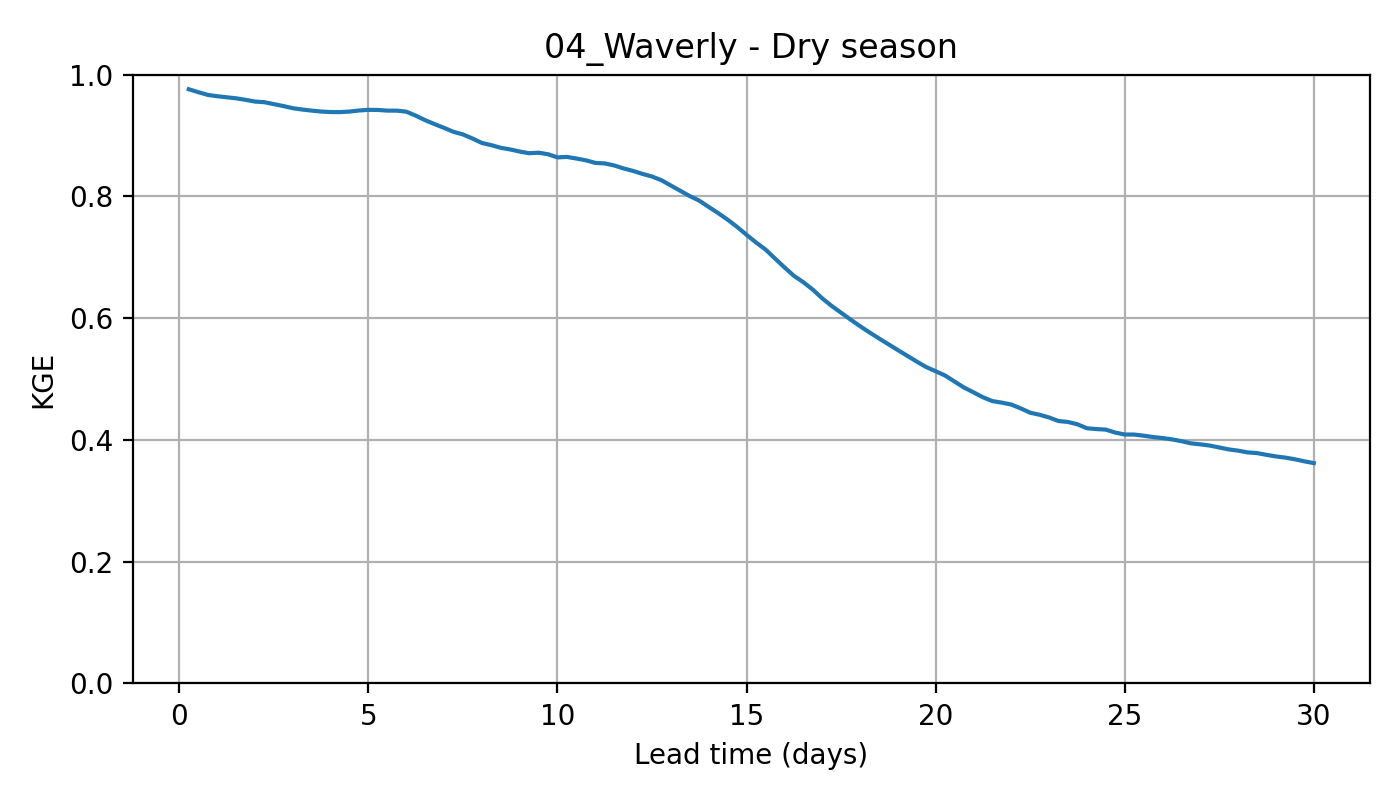
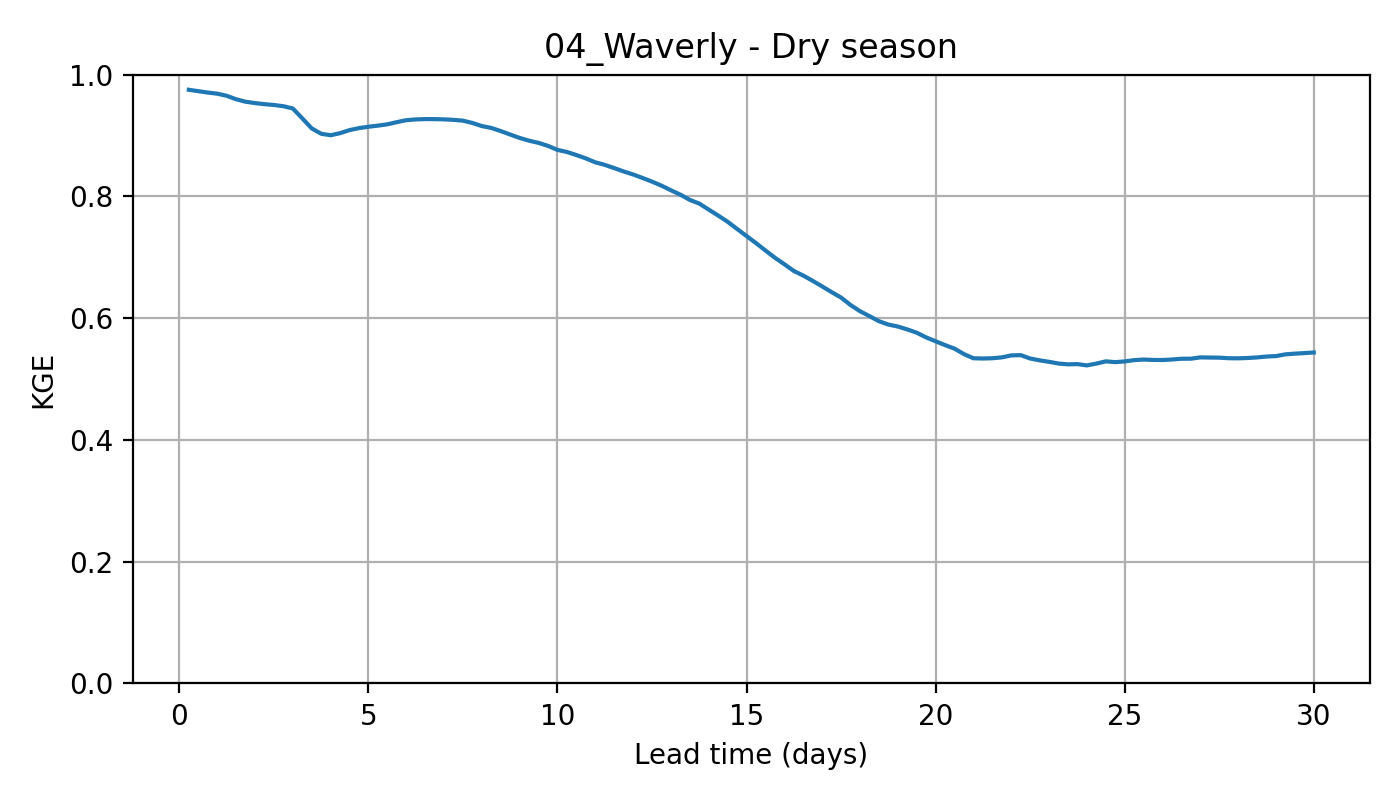
figure update

diff --git a/Discharge_calculation_and_figures/Discharge_KGE.py b/Discharge_calculation_and_figures/Discharge_KGE.py
@@ -37,9 +37,9 @@ def season_from_month(m):
     Dry: Sep(9), Oct(10), Nov(11), Dec(12), Jan(1), Feb(2)
     Wet: Mar(3), Apr(4), May(5), Jun(6), Jul(7), Aug(8)
     """
-    if m in [9, 10, 11, 12, 1, 2]:
+    if m in [ 7, 8,9, 10, 11, 12, 1, 2,3]:
         return "dry"
-    elif m in [3, 4, 5, 6, 7, 8]:
+    elif m in [ 4, 5, 6]:
         return "wet"
     else:
         return None
